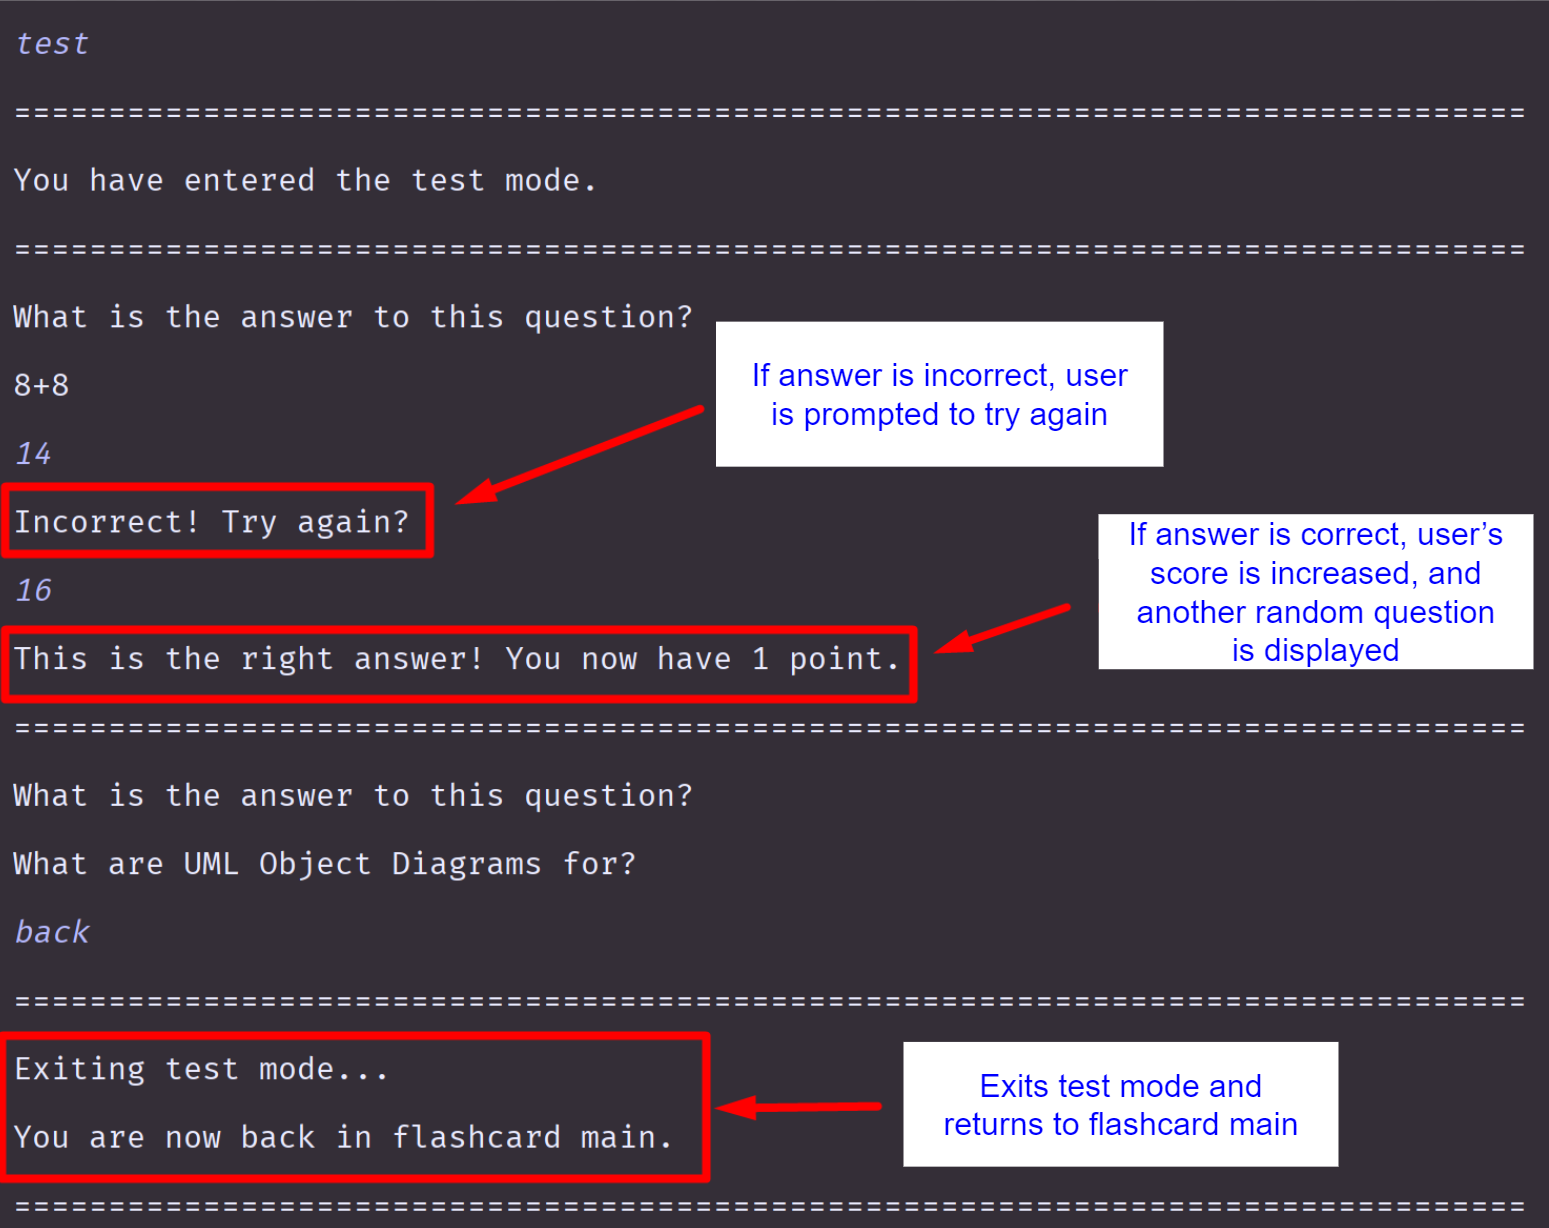
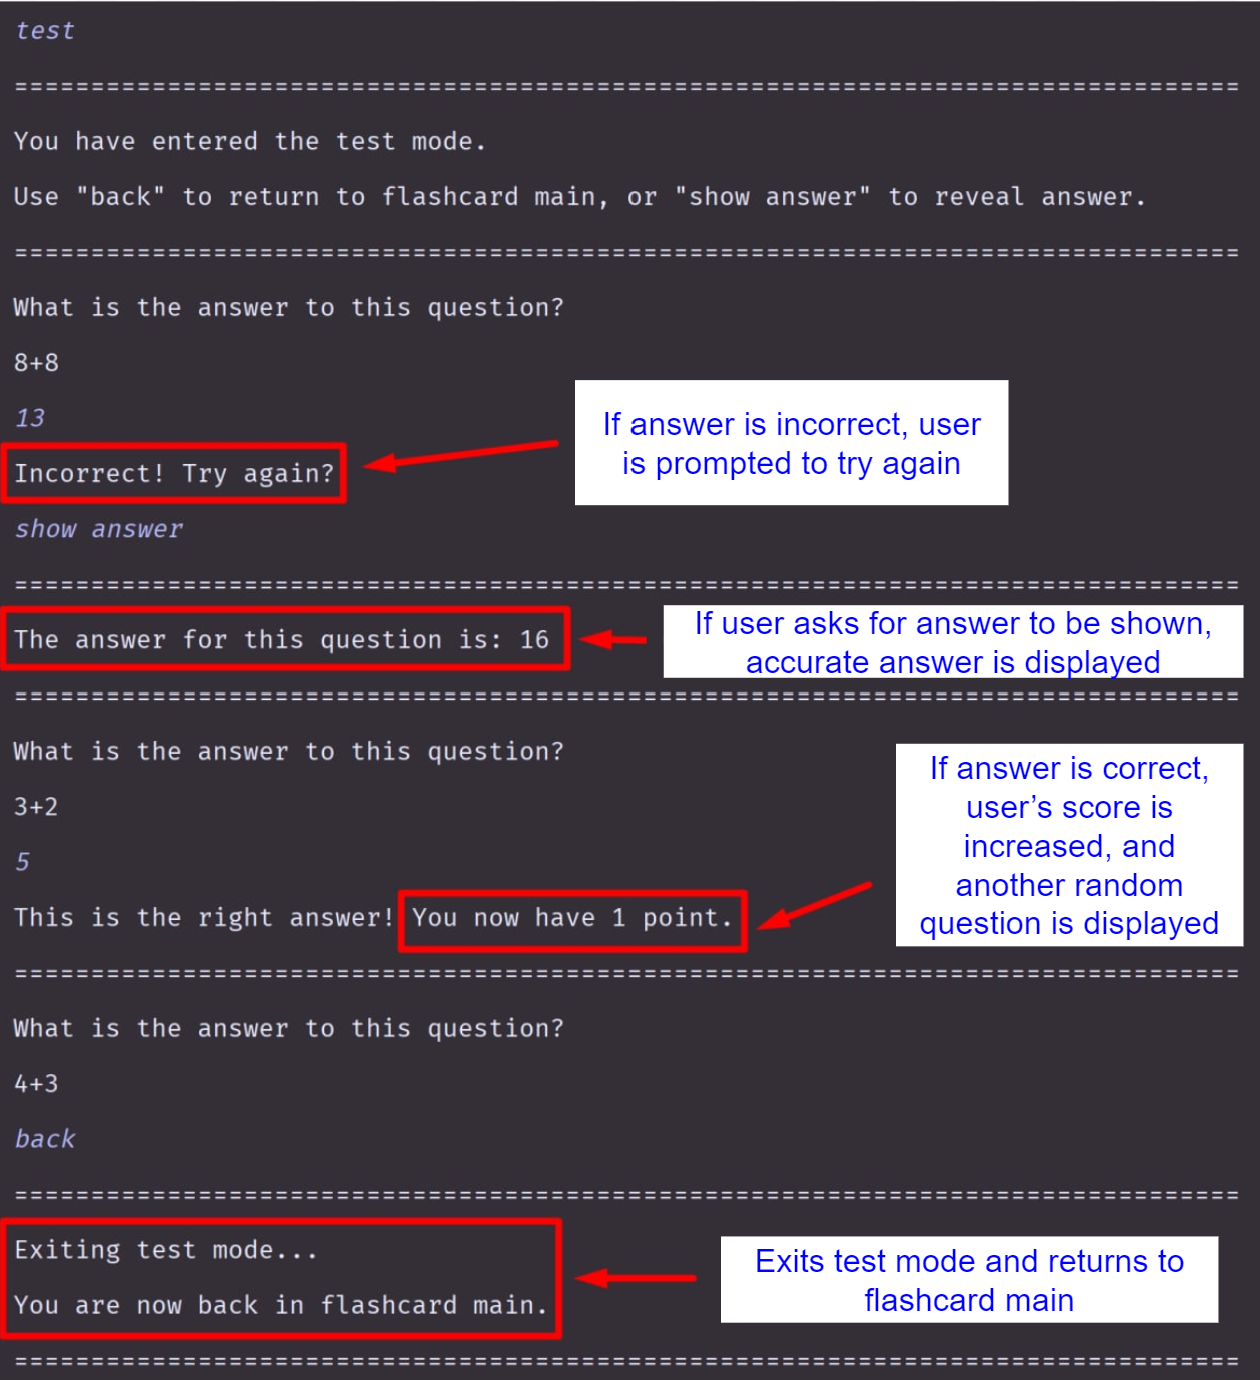
Updated UG for Flashcard

diff --git a/docs/UserGuide.md b/docs/UserGuide.md
@@ -766,12 +766,13 @@ Expected output:
 Grading your own work is one of the best ways to revise as it helps you effectively retain information.
 After adding the flashcards, you may wish to revise the content by testing yourself. 
 
+If you are unable to answer a question and wish to refer to the answer, use `show answer`.
 When you are done revising, use `back` to exit the test mode, and return to the flashcard main.
 
 Instruction:
 1. `test`
 2. Answer the questions as prompted
-3. `back`
+3. `show answer` / `back`
 
 Expected output:
 ![Flashcard_4_5](Images/FlashcardUG/Flashcard_4_5.png)
